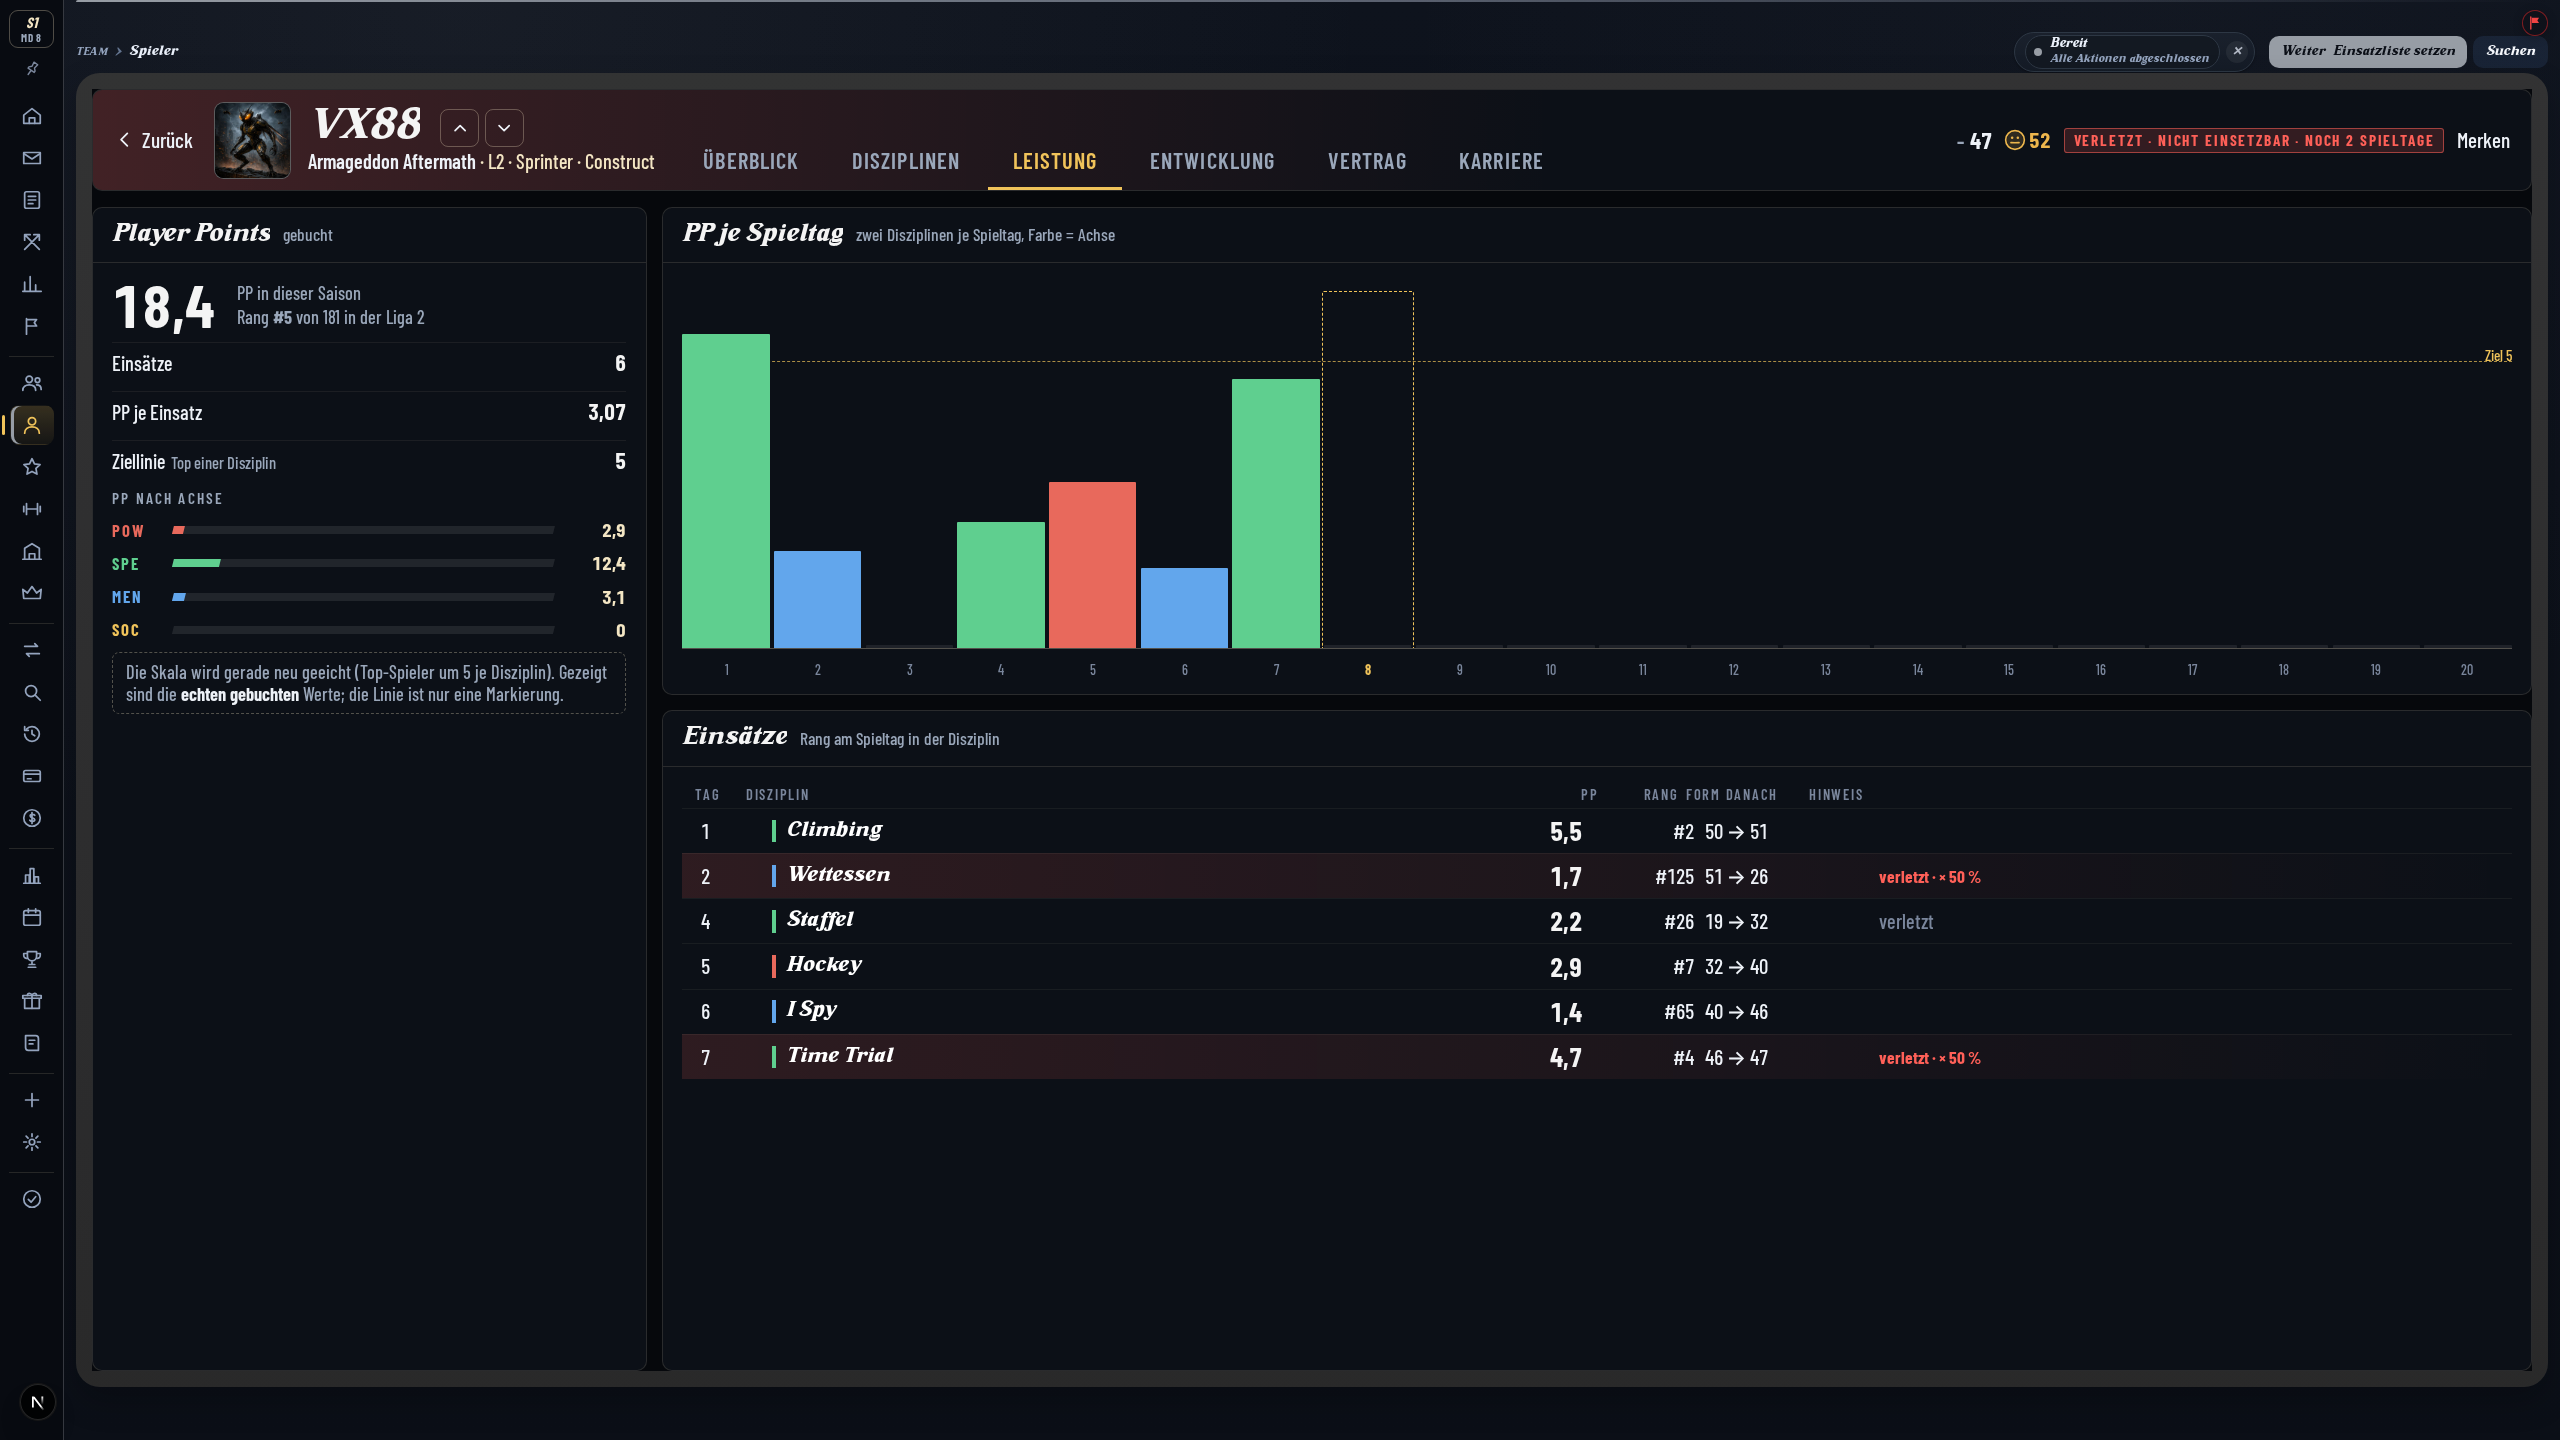
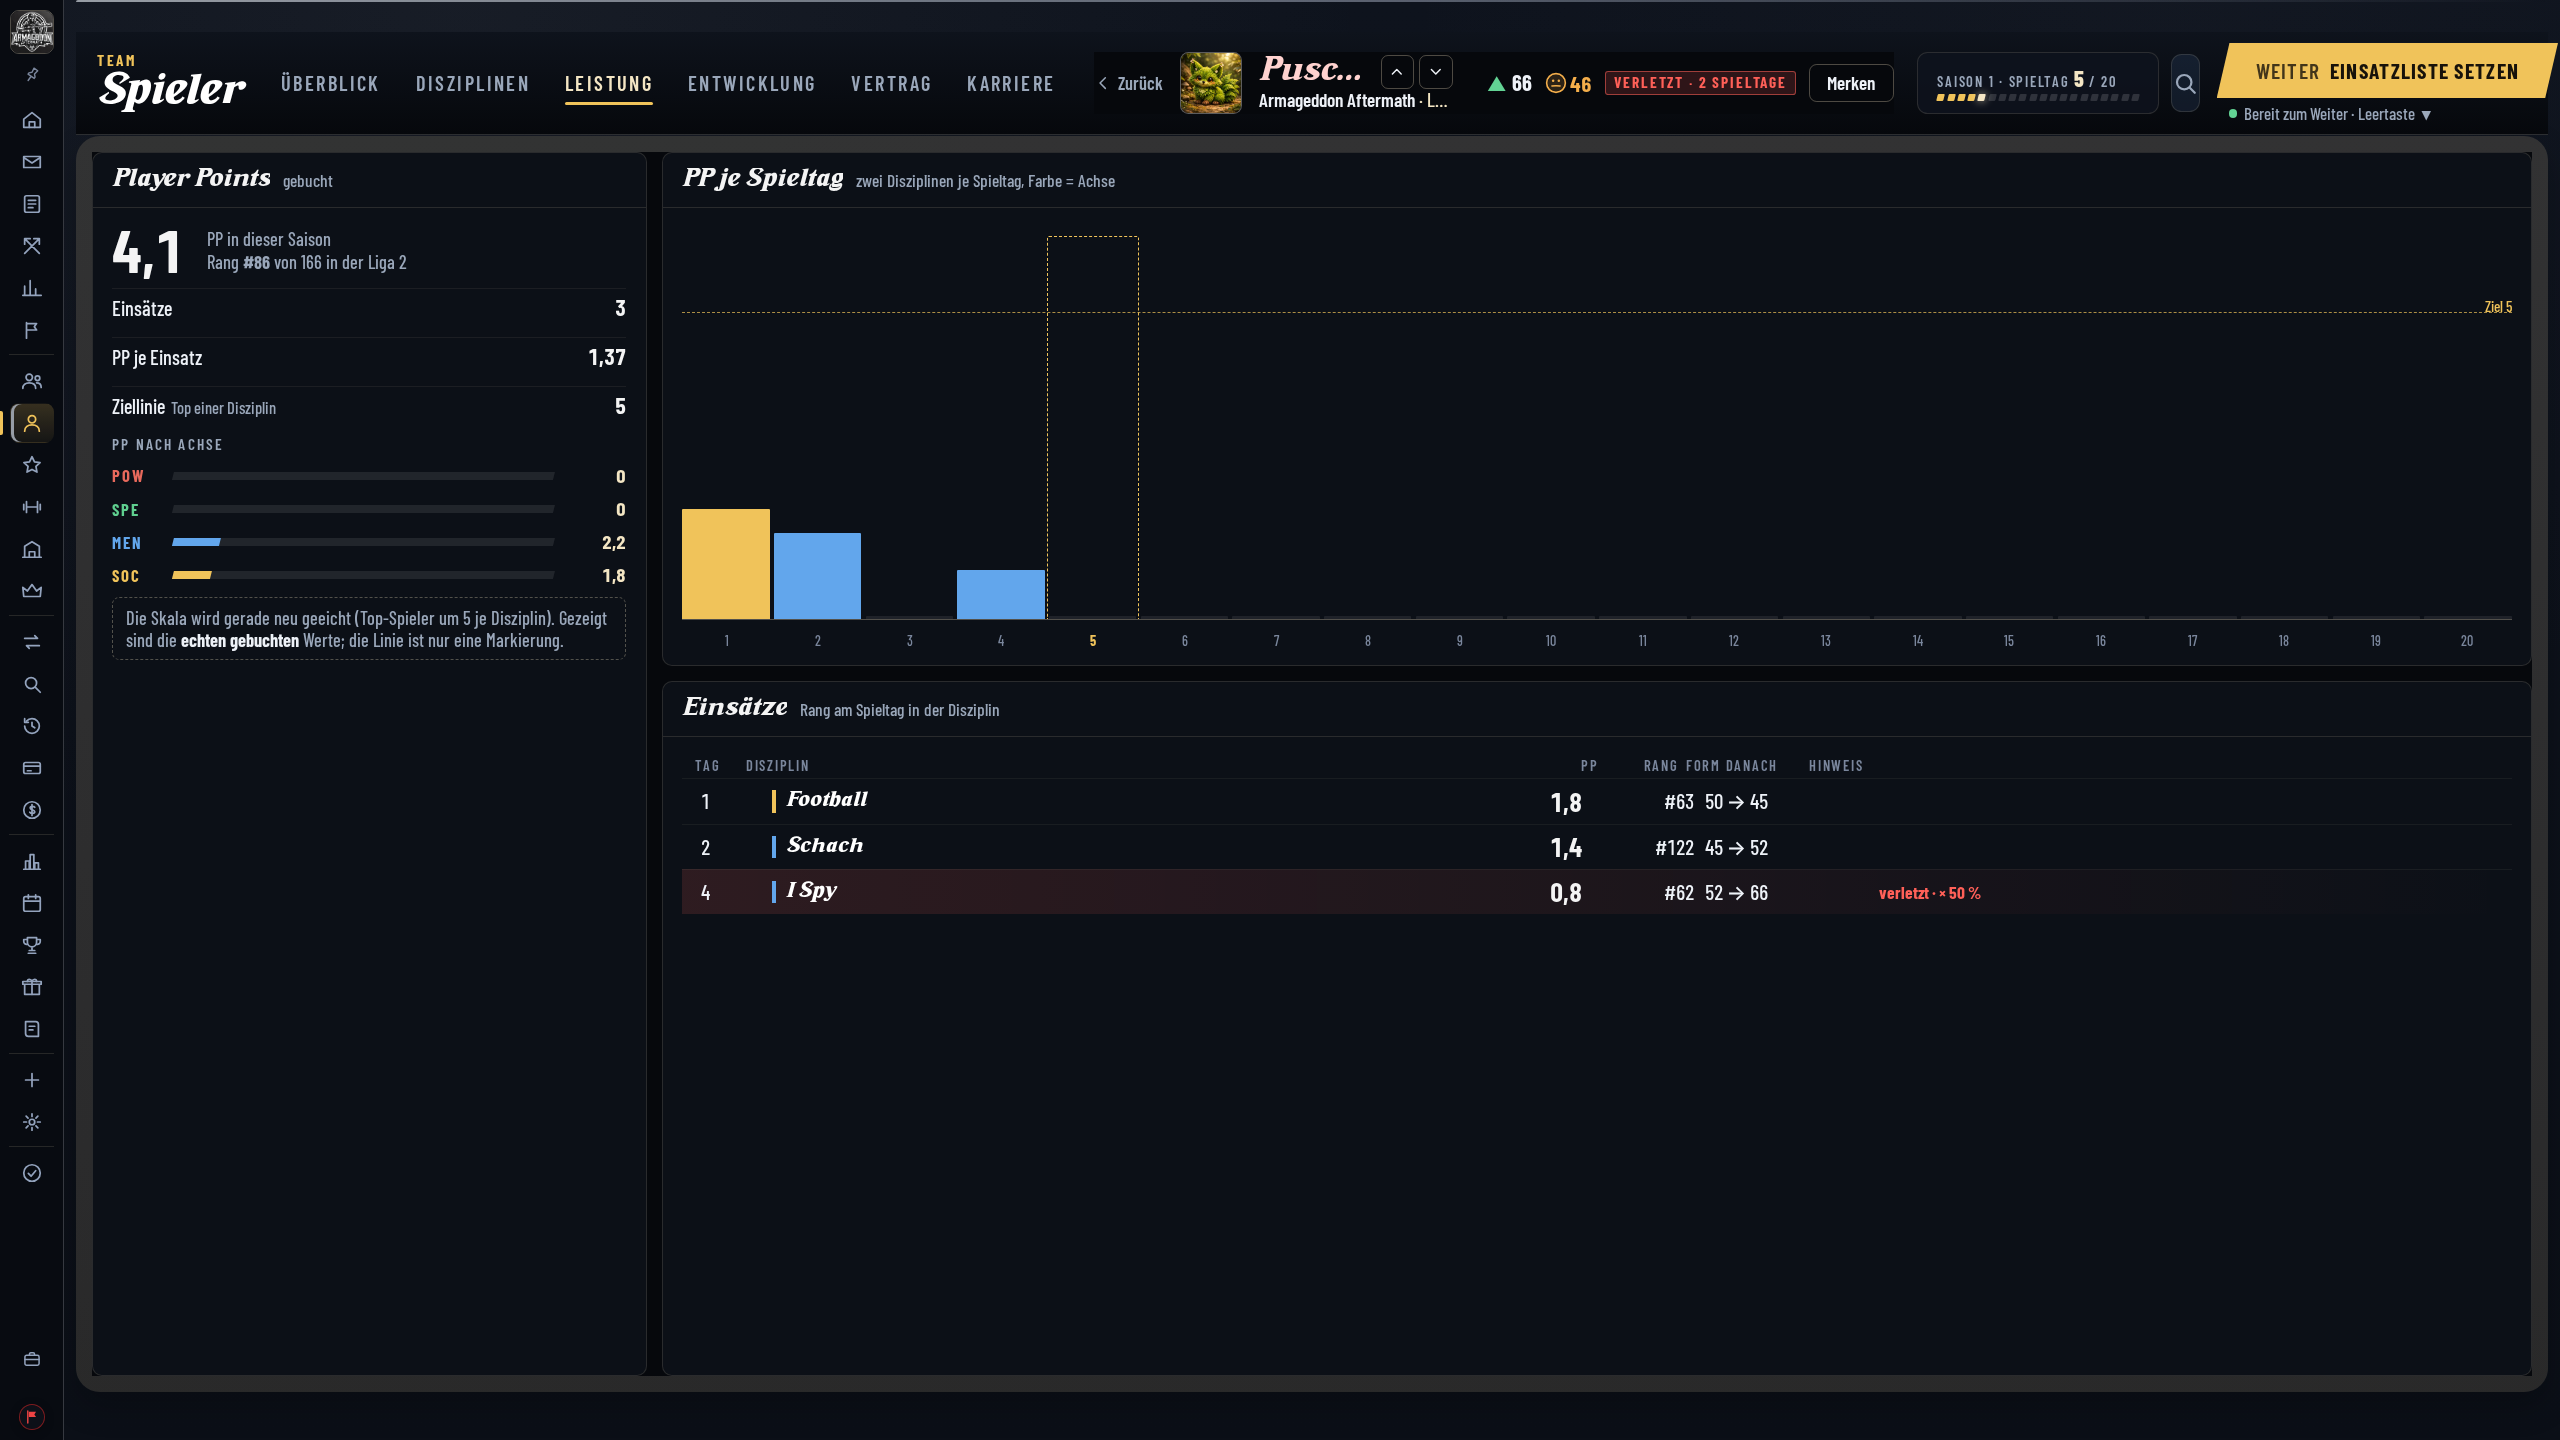
Spielerprofil: Neuaufnahmen im Rahmen, Klicktest dokumentiert, Band bei Verletzung ohne Ueberlauf
Claude-Session: https://claude.ai/code/session_01UYLNtXkprKr1XK4c3X2xQq

diff --git a/app/foundation/spielerprofil/SpielerprofilSeite.tsx b/app/foundation/spielerprofil/SpielerprofilSeite.tsx
@@ -85,13 +85,13 @@ export default function SpielerprofilSeite({
       <FoundationBandSlot>
         <div className={`bc spr-slot${modell.verletzung.verletzt ? " is-verletzt" : ""}`} data-testid="spielerprofil-kopf">
           {onClose ? (
-            <button type="button" className="spr-zurueck" onClick={onClose} data-testid="spielerprofil-zurueck">
-              <BcIcon name="links" /> Zurück
+            <button type="button" className="spr-zurueck" aria-label="Zurück" title="Zurück" onClick={onClose} data-testid="spielerprofil-zurueck">
+              <BcIcon name="links" /> <span className="spr-zurueck__text">Zurück</span>
             </button>
           ) : null}
           {/* eslint-disable-next-line @next/next/no-img-element */}
           {data.portraitUrl ? <img className="spr-kopf__port" src={data.portraitUrl} alt="" /> : <span className="spr-kopf__port" aria-hidden="true" />}
-          <div style={{ minWidth: "9em", flex: "0 1 auto" }}>
+          <div style={{ minWidth: "10.5em", flex: "0 1 auto" }}>
             <h2 className="spr-kopf__name" style={{ display: "flex", alignItems: "center", gap: "0.3em" }}>
               <span style={{ overflow: "hidden", textOverflow: "ellipsis" }}>{data.name}</span>
               <span className="spr-blaettern" role="group" aria-label="Im Kader blättern">
@@ -126,7 +126,7 @@ export default function SpielerprofilSeite({
             {modell.verletzung.verletzt ? (
               <span className="spr-marke is-rot" data-testid="spielerprofil-status-verletzt">
                 {modell.verletzung.nochSpieltage != null
-                  ? `verletzt · noch ${modell.verletzung.nochSpieltage} ${modell.verletzung.nochSpieltage === 1 ? "Spieltag" : "Spieltage"}`
+                  ? `verletzt · ${modell.verletzung.nochSpieltage} ${modell.verletzung.nochSpieltage === 1 ? "Spieltag" : "Spieltage"}`
                   : "verletzt"}
               </span>
             ) : data.teamId ? (

diff --git a/app/foundation/spielerprofil/spielerprofil.css b/app/foundation/spielerprofil/spielerprofil.css
@@ -55,7 +55,8 @@
   min-width: 0;
   display: flex;
   align-items: center;
-  gap: 0.8em;
+  gap: 0.5em;
+  overflow: hidden;
   line-height: 1.15;
 }
 .spr-slot .spr-kopf__port { width: 2.9em; height: 2.9em; border-radius: 0.4em; object-fit: cover; object-position: center 15%; border: 1px solid var(--bc-linie-2); flex: none; background: var(--bc-flaeche-3); }
@@ -69,7 +70,7 @@
 .spr-slot .spr-blaettern button:disabled { opacity: 0.35; cursor: default; }
 .spr-slot .spr-zurueck { font-size: 0.85em; font-weight: 600; color: var(--bc-leise); display: inline-flex; align-items: center; gap: 0.3em; }
 .spr-slot .spr-zurueck:hover { color: var(--bc-gold); }
-.spr-slot .spr-kopf__zustand { display: flex; align-items: center; gap: 0.6em; white-space: nowrap; }
+.spr-slot .spr-kopf__zustand { display: flex; align-items: center; gap: 0.4em; white-space: nowrap; }
 .spr-slot .spr-zst { display: inline-flex; align-items: center; gap: 0.3em; font-weight: 700; font-size: 1.05em; }
 .spr-slot .spr-kn { height: 2em; padding: 0 0.9em; border: 1px solid var(--bc-linie-2); border-radius: 0.4em; font-size: 0.9em; font-weight: 600; color: var(--bc-tinte); display: inline-flex; align-items: center; }
 .spr-marke { font-size: 0.72em; letter-spacing: 0.12em; text-transform: uppercase; font-weight: 700; padding: 0.15em 0.55em; border-radius: 0.2em; background: rgba(242, 160, 61, 0.18); color: var(--bc-heim); border: 1px solid rgba(242, 160, 61, 0.5); white-space: nowrap; }
@@ -82,6 +83,8 @@
 .spr-pfeil.s0 { color: var(--bc-stumm); letter-spacing: 0; }
 .spr-pfeil.sm1, .spr-pfeil.sm2 { color: var(--bc-warn); }
 .spr-slot.is-verletzt .spr-kopf__name { color: #ffd2cf; }
+/* Im Band ist bei Verletzung kein Platz für das Wort: nur der Pfeil, das Wort steht im Titel. */
+.spr-slot.is-verletzt .spr-zurueck__text { display: none; }
 
 /* ---------- Tafel-Gerüst ---------- */
 .spr-tab { flex: 1; min-height: 0; display: grid; gap: 0.72em; }

diff --git a/docs/design/spielerprofil-neu-abgleich-18-11.md b/docs/design/spielerprofil-neu-abgleich-18-11.md
@@ -32,12 +32,11 @@ Entfernt: `PlayerDetailDrawer.tsx` (4337 Zeilen), `PlayerHeroNewLook.tsx`, `Play
 - Keine Kaderrolle als Wort; kein Reiter „Report“.
 - Disziplinen kompakter, mit Liga-Rang und Rang unter allen Aktiven; PP mit Liga-Rang; Kaderstärke über die besten 6.
 - Gehalt groß je Saison, klein je Spieltag (Überblick, Vertrag, Karriere, Kurzprofil).
-- Kopf (Zurück, Name, Blättern, Reiter, Zustand) steht in der Seite selbst, weil der App-Rahmen mit dem Regieband noch nicht auf `main` liegt; er wandert später in dessen Slot.
+- Kopf (Zurück, Name, Blättern, Zustand, Merken) steht im Seiten-Slot des Regiebands, die Reiter im Unterreiter-Platz (siehe „Einbau in den App-Rahmen“). Im Band ist wenig Platz: bei Verletzung steht dort nur „verletzt · N Spieltage“, der Satz „nicht einsetzbar · noch N Spieltage“ steht ausgeschrieben in der Einsatzfähigkeits-Karte und im Kurzprofil.
 - PP-Skala: nur die Markierung bei 5, die Werte sind die echten gebuchten.
 
 ## Fehlt
 
-- Regieband und Seiten-Slot (App-Rahmen nicht auf `main`).
 - Rollen je Disziplin mit „Passung“ (im Mockup erfunden; im Bau wäre es die Platzwert-Funktion der Einsatzliste).
 - Duell-Ergebnis (S/U/N) je Einsatz und Rang-Verlauf in der Leistungstabelle: die Zuordnung „er war aufgestellt“ ist noch nicht gebaut.
 - Marktwert-Verlauf je Spieltag (nur je Saison).
@@ -51,13 +50,29 @@ Entfernt: `PlayerDetailDrawer.tsx` (4337 Zeilen), `PlayerHeroNewLook.tsx`, `Play
 
 ## Einbau in den App-Rahmen (Runde 2)
 
-Der Kopf der Seite (Zurück, Porträt, Name, Blättern, Team und Liga, Form, Moral, Status, Merken) steht jetzt im **Seiten-Slot des Regiebands** (`FoundationBandSlot`), die sechs Reiter im Unterreiter-Platz des Bands (`FoundationSubNav` in der Shell). Die Seite hat keinen eigenen Kopf mehr, ihre Höhe richtet sich nach `--fb-u` und der Bandhöhe. **Alle Bilder in `spielerprofil-neu-18-11/` stammen noch aus der Zeit vor diesem Einbau** (eigener Kopf in der Seite, alter Rahmen); die Neuaufnahme im Rahmen steht aus (siehe unten).
+Der Kopf der Seite (Zurück, Porträt, Name, Blättern, Team und Liga, Form, Moral, Status, Merken) steht jetzt im **Seiten-Slot des Regiebands** (`FoundationBandSlot`), die sechs Reiter im Unterreiter-Platz des Bands (`FoundationSubNav` in der Shell). Die Seite hat keinen eigenen Kopf mehr, ihre Höhe richtet sich nach `--fb-u` und der Bandhöhe.
 
-## Stand der Aufnahmen
+**Korrektur der Höhe (19.11.):** die Neuaufnahme im Rahmen zeigte, dass die Seite 73 px zu hoch war (Dokument 1153 statt 1080 bei 1920x1080, gleiche Abweichung bei 2560 und 1710): Panel-Polster (16 px) und Schalen-Fuß (48 px) des Rahmens fehlten in der Rechnung. Jetzt `100vh - 4,5 · --fb-u - 120px`; gemessen bei 1920x1080, 2560x1440 und 1710x1112: Dokumenthöhe = Fensterhöhe, nichts scrollt.
 
-Vorhanden (Wegwerf-Save, Skript `scripts/screenshot-spielerprofil-neu.ts`): alle Reiter bei **2560x1440** (Überblick Star, Überblick verletzt, Disziplinen, Leistung verletzt, Vertrag, Entwicklung, Karriere, Nebel fremder Spieler, ohne Figur), bei **1920x1080** Überblick, Überblick verletzt, Disziplinen, Leistung, Vertrag, dazu vier Gegenüberstellungen `abgleich-*.png` (links Mockup, rechts App).
-**Offen:** Entwicklung, Karriere, Nebel und ohne Figur bei 1920x1080, der ganze Satz bei 1710x1112 und die Drawer-Bilder. Der Rechner war durch parallele Dev-Server überlastet (Server stürzten ab), die Läufe laufen seit der Sperre über `flock /tmp/oly-aufnahme.lock`; das Skript setzt mit `OLY_SHOT_VORHANDENE_UEBERSPRINGEN=1` dort fort, wo es aufgehört hat. Der Drawer wird über die Kaderzeile der Teamansicht geöffnet; das Auffinden der Zeile ist im Skript noch nicht bestätigt. Die Messung unten gilt für die vorhandenen Bilder.
+## Stand der Aufnahmen (19.11., alle im Rahmen neu)
+
+Alle Bilder in `spielerprofil-neu-18-11/` sind neu aus dem Produktionsbau der App (`OLY_SHOT_PROD=1`, deviceScaleFactor 1, Wegwerf-Battle-Save nach vier Spieltagen, Skript `scripts/screenshot-spielerprofil-neu.ts`, Save danach gelöscht, `.next` danach gelöscht):
+
+- **2560x1440 und 1920x1080:** `01` Überblick Star, `02` Überblick verletzt, `03` Disziplinen, `04` Leistung verletzt, `05` Vertrag, `06` Entwicklung, `07` Karriere, `08` Nebel fremder Spieler, `09` ohne Figur.
+- **1710x1112:** `01`, `02` Überblick (Star, verletzt).
+- **Kurzprofil:** `10` Drawer Star, `11` Drawer verletzt (2560 und 1920), `12` Überblick mit verletzter Figur (rotes Band), `13`/`14`/`15` Drawer vor Verlängern, Verkaufen, Ganzes Profil, dazu `13-aktion-verlaengern-…`, `14-aktion-verkaufen-…`, `15-aktion-ganzes-profil-…` nach dem Klick.
+- `abgleich-*.png` (links Mockup, rechts App) sind **nicht neu**: sie stammen aus der Zeit vor dem Einbau in den Rahmen und zeigen den alten eigenen Kopf.
+
+## Klicktest Kurzprofil, Verlängern, Verkaufen (19.11., echte App im Produktionsbau)
+
+Weg: Teamansicht, Kaderkarte anklicken, Kurzprofil, dann je Knopf. Gemessen mit Playwright gegen den Produktionsserver.
+
+- **Kurzprofil** öffnet über die Kaderkarte (Skript findet die Karte jetzt über `.home-v2-player-name`; die alte Suche nach Tabellenzeilen fand nichts, Kader sind Karten unter dem Falz).
+- **Ganzes Profil öffnen** wechselt auf `?view=playerProfile&tab=overview&playerId=…`, die Seite mit Rahmen-Kopf steht.
+- **Verlängern** öffnet die Gehaltsverhandlung. **Das ging zunächst nicht:** das Fenster saß außerhalb des Bildschirms (Hintergrund verwischt, kein Fenster sichtbar). Ursache: `fb-auf … both` in `components/foundation/broadcast/rahmen.css` ließ nach dem Aufstieg ein `transform` am Inhalt stehen; damit wurde `.foundation-content` zum Bezugsrahmen für `position: fixed`, der Hintergrund maß 2761 px statt 1080 px und das Fenster saß in dessen Mitte. Behoben mit `backwards` statt `both`; danach misst der Hintergrund 1080 px und das Fenster steht mittig. Betrifft jedes Fenster aus der Teamansicht, nicht nur das Profil.
+- **Das Fenster zeigt mitten in der Saison „Gehaltsverhandlung öffnet am Season-End (nach MD10) – bis dahin nur Vorschau“** und sperrt die Schritte; das ist die bestehende Regel, kein Fehler dieses Baus.
+- **Verkaufen:** der Aufruf geht raus, die Antwort ist `409 sell_only_at_season_end` (Verkauf nur zum Saisonende). Es öffnet sich kein Fenster, und in den sechs Sekunden danach war keine sichtbare Meldung zu sehen. Das ist das Verhalten des bestehenden Verkaufswegs; ob er eine sichtbare Rückmeldung geben sollte, ist eine eigene Frage und hier nicht verändert.
 
 ## Messung
 
-Je Aufnahme prüft das Skript `scrollWidth/-Height`: die Seite scrollt bei allen drei Zielbildschirmen nicht. Einzige gemeldete Überbreite ist die Pixel-Figur, die absichtlich über ihren Kasten hinausragt (durchsichtiger Rand, abgeschnitten).
+Je Aufnahme prüft das Skript `scrollWidth/-Height`. Dokumenthöhe = Fensterhöhe bei allen drei Zielbildschirmen. Im ersten Durchlauf meldeten die Seiten mit verletztem Spieler `seiteScrollt: true` über die Breitenprüfung: das Band ragte rechts über (Merken über der Saison-Uhr, „Weiter“ angeschnitten), weil Name, Zurück-Wort und der lange Status nicht nebeneinander passten. Jetzt steht im Band nur „verletzt · N Spieltage“, bei Verletzung nur der Pfeil statt „Zurück“, der Namenskasten hat eine Mindestbreite, und die Überblick-Bilder (`01`, `02`, `12`, alle drei Größen) sind danach neu aufgenommen und melden `seiteScrollt: false`. `03`–`09` stammen aus dem Durchlauf davor (anderer Wegwerf-Save, also andere Spielernamen); ihr Inhalt hat sich durch die Band-Änderung nicht verschoben, ihre Messzeile war aber noch die alte. Bei 1710x1112 wird der Name im Band noch mit „…“ gekürzt. Gemeldete Überbreite sonst nur bei der Pixel-Figur, die absichtlich über ihren Kasten hinausragt (durchsichtiger Rand, abgeschnitten).
